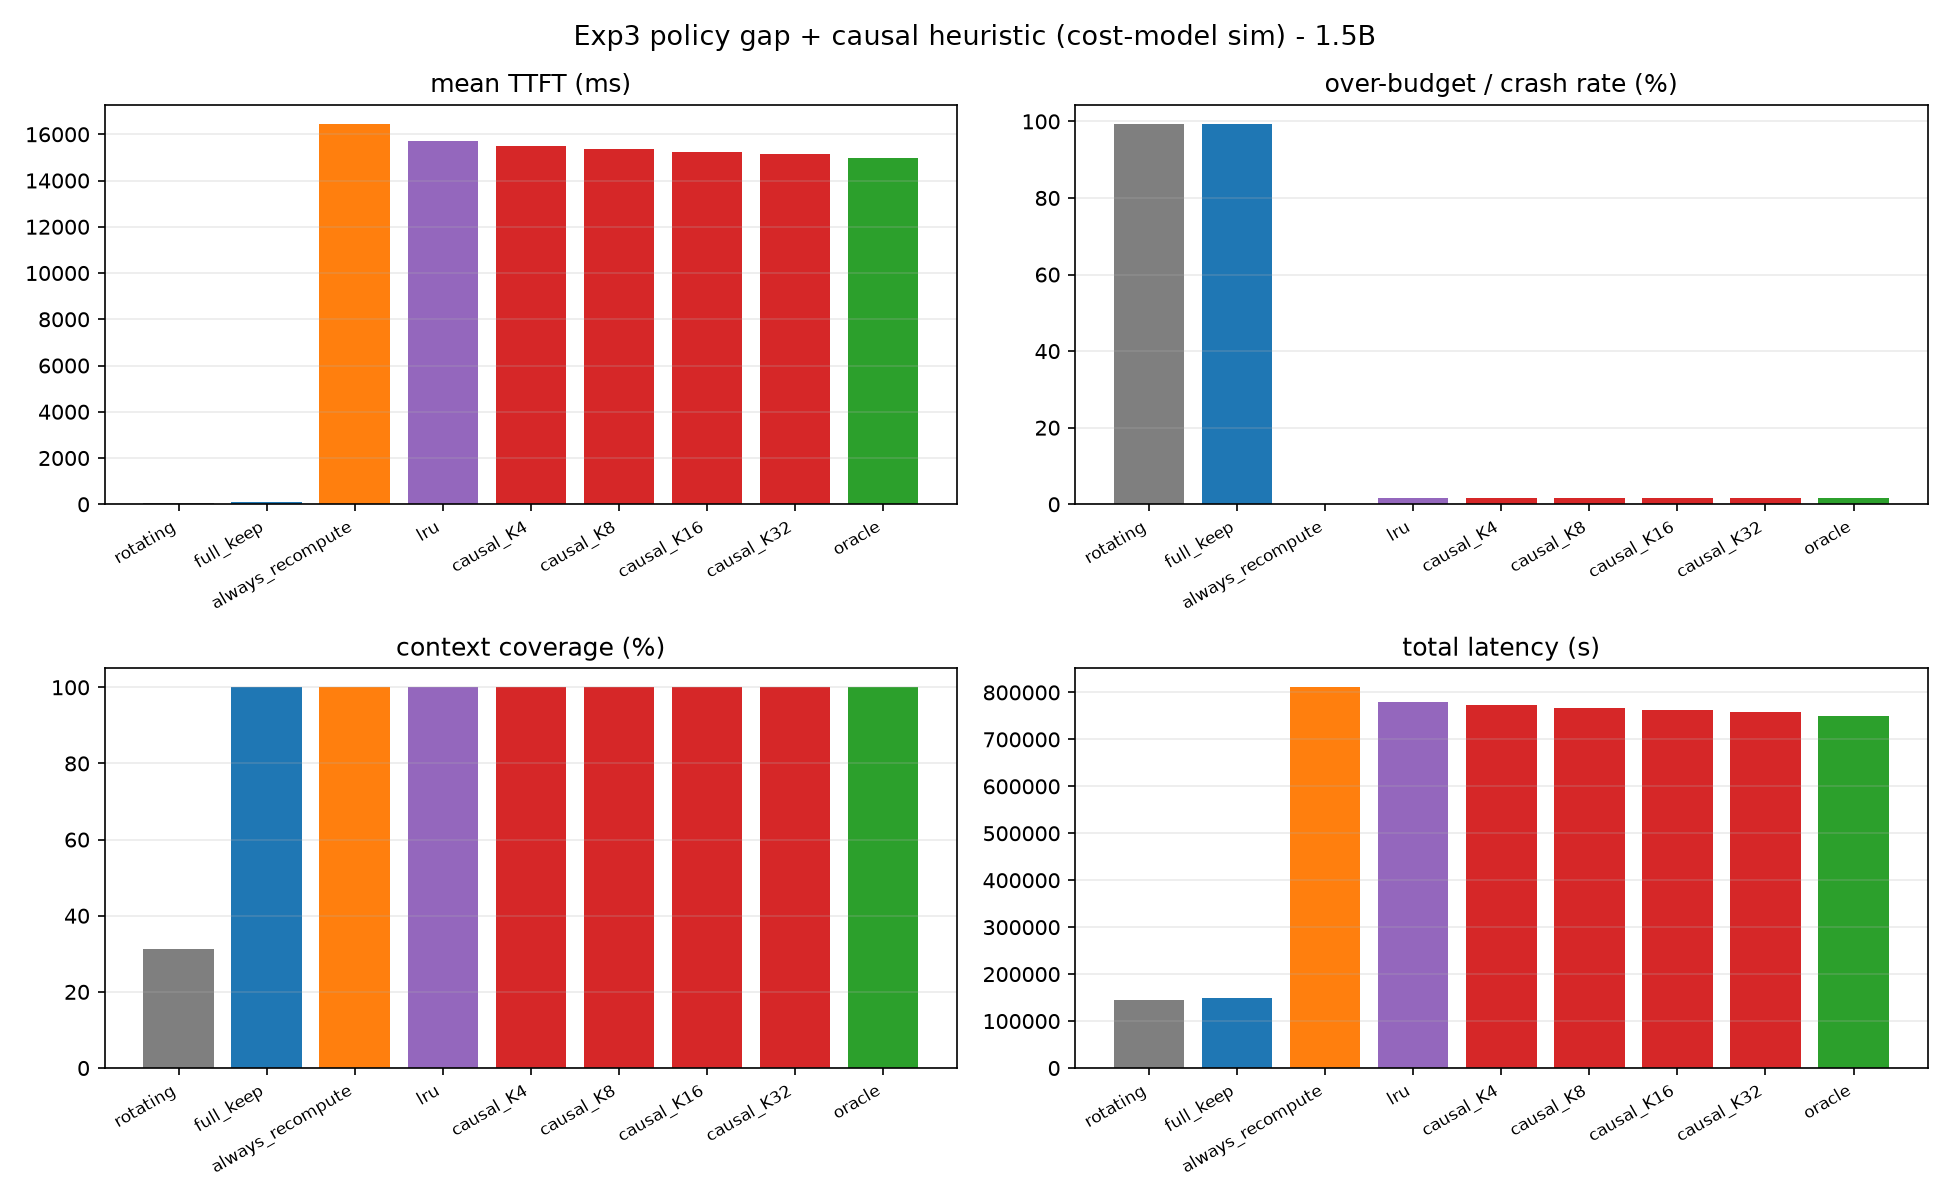
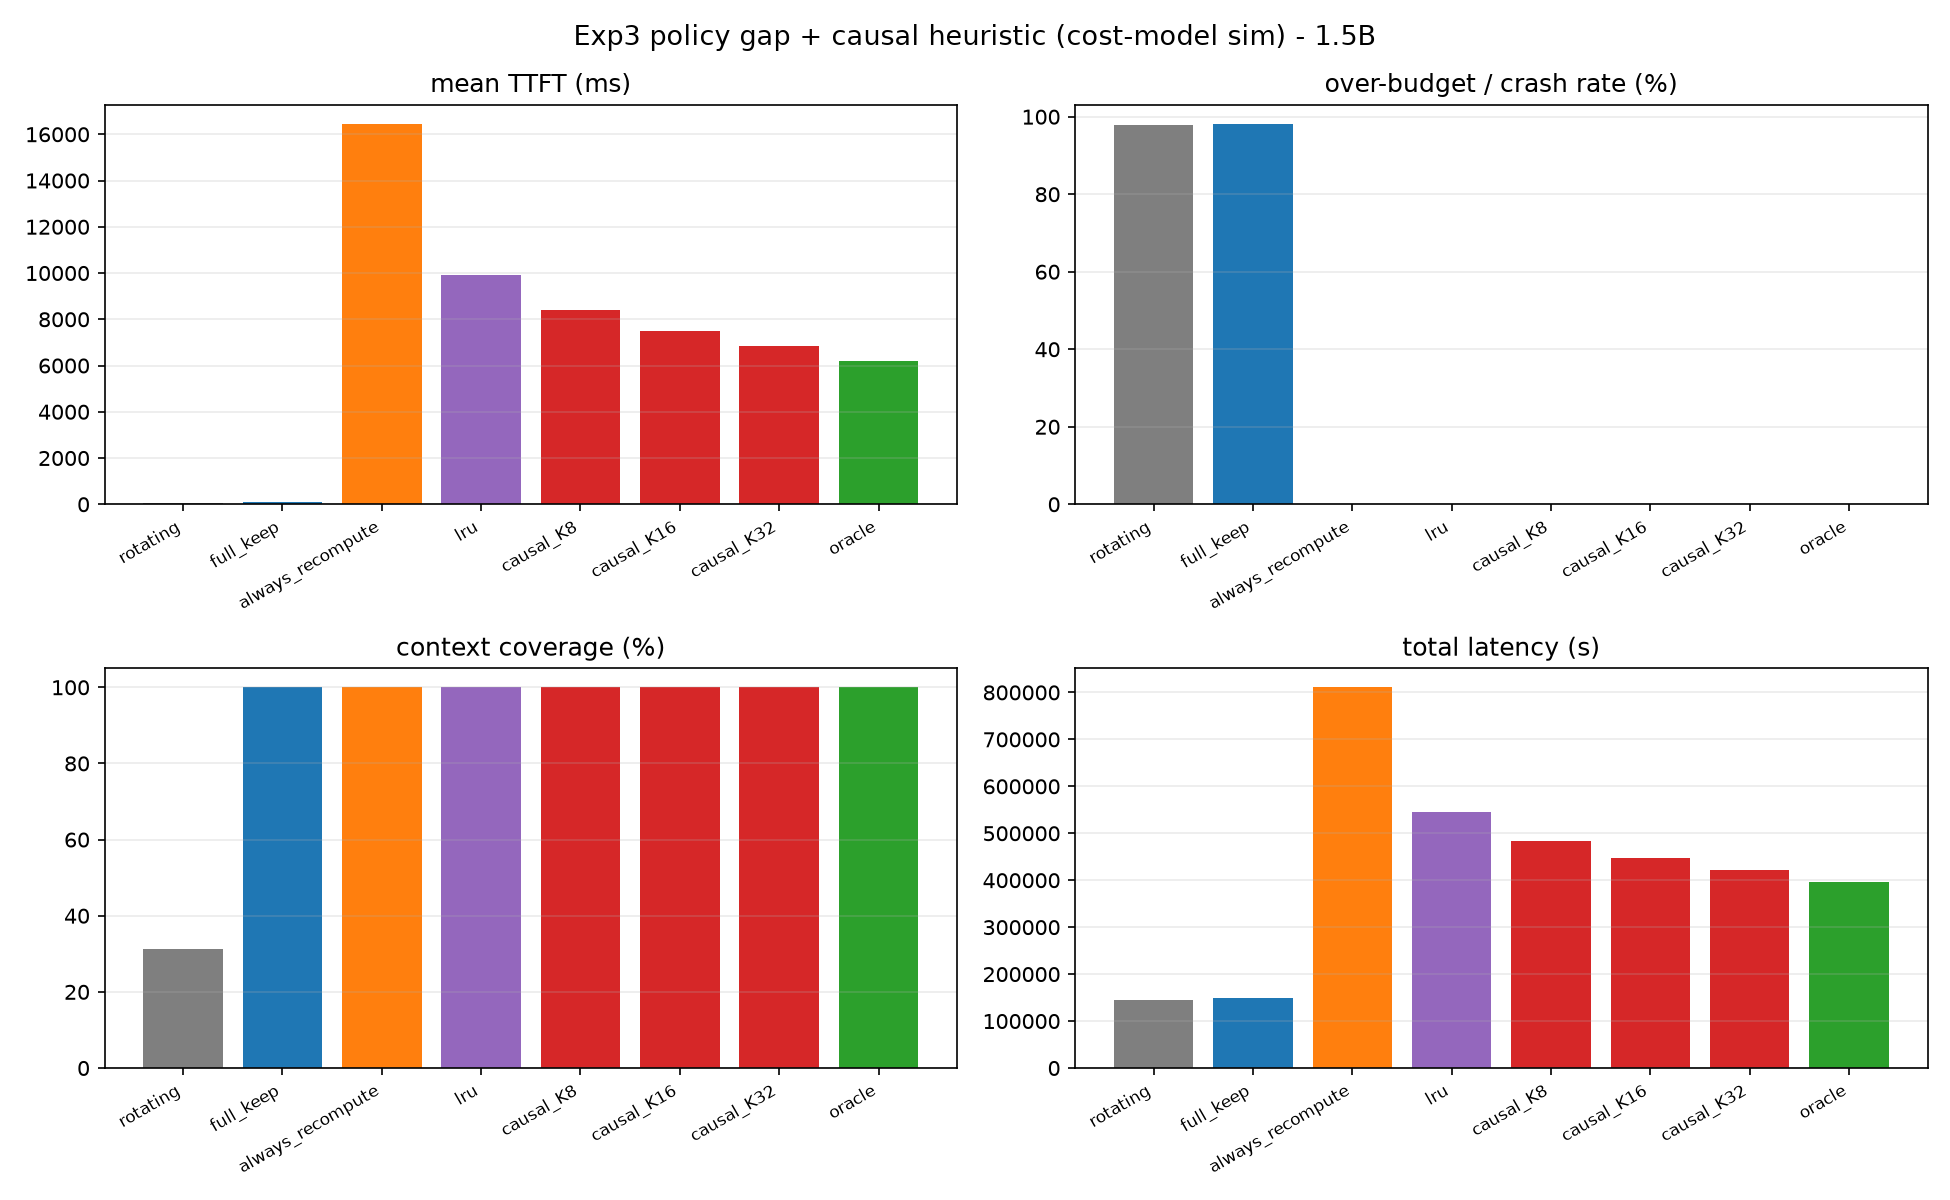
Docs: vLLM-on-Mac baseline + Phase 2 strategy; Exp3 recovery robustness
- DECISIONS/RELATED_WORK/EXPERIMENTS: vllm-metal & vllm-mlx (PagedAttention mechanism
  ported from datacenter, NOT cost-remodeled) added as Tier-2 competitors, Exp3 control group,
  and Phase-2b implementation target. Phase 2 = staged 2a (mlx-lm, validate) / 2b (vllm-metal).
- vllm-metal real-engine run DEFERRED: no Docker, and Docker-on-Mac has no Metal GPU
  passthrough; the simulation's lru policy proxies vLLM's eviction in the control group.
- Exp3 recovery robust across budgets: causal recovers 41-83% of the LRU->oracle TTFT gap
  (2GB & 6GB shared budget, K=8-32) with no foresight.

diff --git a/DECISIONS.md b/DECISIONS.md
@@ -28,3 +28,11 @@
 2026-06-22: Exp3 causal 구현·실측(실 ShareGPT 5k convs, data/raw/old/sg_52k.json 1GB·gitignored). 다중 시퀀스 eviction 모델(가변 think-time 스케줄)로 재구성. 결과: oracle 14.96 < causal 15.14–15.51 < lru 15.71 < always_recompute 16.46 s TTFT. **causal(예지 없음)이 LRU→oracle 격차의 44–75%(K=8–32), always_recompute→oracle의 72–88% 회수 → 달성 가능성 입증(강).**
 2026-06-22: ★ spec 2곳 수정(챗 OK 필요) — 계단함수가 causal<LRU(음수 recovery) 만들어 정합성 수정. ① oracle P_reuse="ever-reused"(이진), "K턴 내" 아님 — Exp1상 keep<recompute 항상이라 재사용될 건 전부 유지·끝난 것만 evict가 진짜 상한(이전 oracle<LRU 버그 해소). ② causal P_reuse=exp(−idle/K) smooth(계단 0.1 floor가 오래된 큰 conv evict 막아 작은 것만 evict→causal<LRU). 둘 다 동일 drop_gain=keep_ms−P_reuse×prefill(N)(keep_ms=KV/92GB·s), P_reuse 입력만 다름 — 검증점 충족. causal은 여전히 1-param·recency-only·예지 없음.
 2026-06-22: 주의 — budget 2GB/동시성16은 실 long-tail conv(최대 149k tok=4.3GB)엔 빡빡 → 절대 TTFT(~15s)는 고압박 regime. recovery%가 robust headline; budget/동시성 sweep으로 강건성 확인 필요(다음). rotating(mlx-lm 기본)은 실 multiturn서 ctx 31%(69% 손실)·full_keep peak 359GB로 둘 다 비현실적.
[phone redacted]: vLLM-on-Mac 등장 확인 — (a) vllm-metal: Docker×vLLM 공식 플러그인, MLX 백엔드, 단일 풀 제로카피 + paged attention, v0.2.0(2026/04)에서 unified paged varlen Metal 커널 기본(TTFT 83×, throughput 3.6× vs v0.1.0). (b) vllm-mlx: 별개 커뮤니티 프로젝트, continuous batching + paged KV + prefix cache + SSD 티어링(EuroMLSys'26 계열).
[phone redacted]: 노벨티 영향 판정 — 이들은 PagedAttention *메커니즘*을 데이터센터에서 *이식*했을 뿐, (i) 단일 풀 비용 구조 *재유도*(offload 퇴화 → keep-vs-recompute), (ii) CPU/GPU 버스 경합 비대칭은 미탐. KV 정책은 vLLM 그대로(LRU/prefix/recompute-default). SSD 티어링은 디스크 축이지 통합 메모리 내부 recompute-vs-read 축 아님. → 우리 지적 델타(비용 재유도 + 경합 비대칭 + 정책 반영) 유지·강화. "메커니즘 빈틈"은 닫혔고 "정책/비용모델 빈틈"은 열려 있음.
[phone redacted]: 프레이밍 강화 — "vLLM조차 Mac에 왔다 = 통합 메모리가 진지한 플랫폼"(동기 강화) + "그 vLLM조차 PCIe 가정 정책을 이식만 함"(델타 날카로워짐). ②(경합 비대칭) 전면 프레이밍 유지.
[phone redacted]: 우리가 만드는 것 정의 — vllm-metal보다 빠른 커널/배칭/인프라가 아님(그들이 잘함). *그들이 무시하는 비용 축*에서 이기는 KV 관리 *결정 정책*. 주장 = "vllm-metal의 이식된 정책은 단일 풀에서 차선, 우리 UMA-native 정책이 같은 엔진 안에서 이를 이긴다"(OOM/크래시↓ + 컨텍스트 보존 + 불필요 recompute↓, oracle 상한 근접).
[phone redacted]: Phase 2 구현 전략 = 단계적 이중 트랙. Phase 2a(먼저, mlx-lm): 정책 구현·아이디어 검증(단일 사용자·멀티턴), 빠름·통제, 워크샵용 충분. Phase 2b(조건부, vllm-metal): 2a 강결과 + 랩 합류 시, vllm-metal KV 경로에 이식해 "실 서빙 엔진서 배칭 하에 그들의 LRU를 이긴다" 입증(메인 트랙 결정타). 위험 격리: vllm-metal 인프라에 먼저 빠지지 말 것 — mlx-lm로 "되는지" 먼저 싸게 확인.
[phone redacted]: watch list 추가 — vllm-metal/vllm-mlx repo 릴리스 노트(빠르게 변함·경쟁: 다음 버전서 UMA-aware eviction 넣으면 ②까지 닿을 수 있음). arXiv 알림과 함께 제출 직전 재검증.
[phone redacted]: vllm-metal 실 엔진 측정 보류 — docker 미설치 + Docker-on-Mac은 Metal GPU 패스스루 불가(Linux VM) + 네이티브 설치는 별프로젝트(챗 토끼굴 경고 준수). 시뮬레이션상 lru baseline이 vLLM eviction(LRU/recompute-default)의 proxy로 대조군 커버; 실 엔진 측정은 Phase 2b 인접으로 큐잉.
[phone redacted]: Exp3 recovery budget robustness 확인 — 2GB(44–75%)·6GB(41–83%) 모두 causal이 LRU→oracle 격차의 ~40–83%(K=8–32) 회수. always_recompute→oracle은 79–94%. 헤드룸·달성가능성 강건(고압박일수록 절대 TTFT↑이나 recovery% 일관).

diff --git a/EXPERIMENTS.md b/EXPERIMENTS.md
@@ -47,6 +47,11 @@ drop_gain 큰 순서로 drop, 예산 충족까지.
 주의: 첫 버전 정교화 금지. recency는 계단함수로 충분. 학습/예측 기반 확장은 Phase2.
 검증: oracle과 causal이 *정확히 같은 비용 함수* 사용(차이는 P_reuse 입력뿐); recompute_cost가 Exp1 prefill(N) 곡선을 룩업.
 
+### vllm-metal 비교군 추가 [2026-06-22]
+최종 대조군에 vllm-metal(또는 vllm-mlx) paged-KV + 기본 eviction(LRU/recompute-default)을 같은 멀티턴 트레이스에서 *실측*(실 엔진 행동 관찰)해 추가 — "SOTA 서빙 엔진조차 단일 풀 비용 구조를 무시해 흘린다"(mlx-lm rotating보다 강한 baseline).
+최종 대조군: rotating(mlx-lm) / full_keep / always_recompute / **vllm-metal paged+LRU** / oracle(상한) / causal(우리). [+lru = 시뮬레이션상 vLLM eviction의 proxy, 이미 포함]
+주의: 실 엔진 측정만(Phase 2b 구현과 별개). 설치·실행이 무거우면 우선순위 낮춰 실 트레이스 Exp3(mlx 정책+oracle+causal) 먼저 완성하고 vllm-metal 비교군은 그다음.
+
 ## Exp 4 — 크로스아키 대조점  [RQ4]  (선택, Phase 2 즈음)
 목표: crossover가 통합 메모리 스펙트럼을 따라 *이동*함을 보임(풀 시스템 이식 X, 곡선만).
 방법: Exp1 비용 곡선을 클라우드 분리형 GPU 한 대(PCIe; A10/4090)에서 재현 → N*_PCIe.

diff --git a/RELATED_WORK.md b/RELATED_WORK.md
@@ -5,8 +5,10 @@
 - DBMS-Inspired Preemption (2411.07447): PCIe recompute>swap crossover + "end-device선 swap 유리" Remark(우리 punt).
 ## Tier 2 경쟁·인접 (주시)
 - Learning to Evict from KV Cache (2602.10238, Apple): RL eviction, 하드웨어-무관. 하드웨어-인지 피벗 시 최대 위협.
-- vllm-mlx (2601.19139, EuroMLSys'26): UMA continuous batching, eviction은 generic LRU.
+- vllm-metal (Docker×vLLM 공식 플러그인, MLX 백엔드): 단일 풀 제로카피 + paged attention(experimental), v0.2.0 unified paged varlen Metal 커널(TTFT 83×↑). → PagedAttention 메커니즘 이식이지 비용 재유도 아님; KV 정책 vLLM 그대로(LRU/recompute). **Phase 2b 구현 타겟 후보 + Exp3 비교군.**
+- vllm-mlx (2601.19139, EuroMLSys'26): UMA continuous batching + paged KV + prefix + SSD 티어링; eviction은 generic LRU.
 - KVSwap (2511.11907): on-device disk-aware offload(디스크 I/O 바운드, in-memory 결정 아님).
+메모: vllm-metal/vllm-mlx 둘 다 paged KV·단일 풀 인지는 했으나 비용 모델 재유도·CPU/GPU 버스 경합·UMA-native eviction 정책은 미탐 = 우리 델타. 릴리스 빠름 → watch list, 제출 직전 재검증.
 ## Tier 3 토대 계보 (읽음): FlexGen 2303.06865 / vLLM 2309.06180 / Orca(OSDI'22) / InfiniGen(OSDI'24)
 ## Tier 4 UMA 특성화: Profiling LLM on Apple Silicon [phone redacted] / Framework 비교 [phone redacted] / Mobile SoC 경합 [phone redacted]
 ## Tier 5 데이터센터 UM(대조용): SuperInfer 2601.20309 / Oneiros 2507.11507 / Dyn KV Placement 2508.13231

diff --git a/RESEARCH.md b/RESEARCH.md
@@ -72,7 +72,7 @@ folklore 위험 방어: 블로그/업계 논의 명시 인용 + "첫 체계적·
 - 현재 열린 질문: (1) **N* 이동 [답함]** — prefill 경합 거의 무반응(−0.5~+7.5%, compute-bound) vs decode ~38%(bandwidth-bound) → 경합 시 N*가 recompute 쪽 이동(~1.3–1.4×). Exp1 ~600×엔 못 미쳐 refine. 정책 레버=버스 경합 시 recompute 선호(PCIe엔 없음). (2) KV 읽기 실효 대역폭이 큰 모델서 더 낮은 이유. (3) 7B@8192 클린 단일 점. (4) PCIe swap=모델값 — Exp4 실측 대조.
 - [x] **Phase 1 측정 GO** + 프레이밍 확정(2026-06-21): ②경합 비대칭을 전면 empirical로, ①eviction은 folklore의 첫 통제 정량화로 포지셔닝.
 - [ ] 마무리 측정: 7B@8192 클린 1점, 경합 곡선 크기 sweep(+큰모델 KV대역폭 비효율 미니조사).
-- [~] Exp 3 (정책 격차) — 다중 시퀀스 eviction 모델(가변 think-time) + online causal 휴리스틱, **실 ShareGPT(5k convs) 측정**. oracle 14.96<causal<lru 15.71<always_recompute 16.46s TTFT. **causal(예지 없음)이 LRU→oracle 격차의 44–75%(K=8–32) 회수 → 달성 가능성 입증(강).** rotating(기본)은 실 multiturn서 ctx 31%만 유지. spec 2곳 정합성 수정(oracle=ever-reused 이진, causal=exp(−idle/K) smooth) **챗 OK 필요**. budget/동시성 robustness sweep 남음.
+- [~] Exp 3 (정책 격차) — 다중 시퀀스 eviction 모델(가변 think-time) + online causal 휴리스틱, **실 ShareGPT(5k convs) 측정**. oracle 14.96<causal<lru 15.71<always_recompute 16.46s TTFT. **causal(예지 없음)이 LRU→oracle 격차의 44–75%(K=8–32) 회수 → 달성 가능성 입증(강).** rotating(기본)은 실 multiturn서 ctx 31%만 유지. spec 2곳 정합성 수정(oracle=ever-reused 이진, causal=exp(−idle/K) smooth) **챗 OK 필요**. budget robustness 확인됨(2/6GB 모두 LRU→oracle 41–83% 회수). vllm-metal 비교군=실엔진 보류(Docker-Mac Metal 패스스루 불가; 시뮬 lru가 proxy).
 - [ ] arXiv/Semantic Scholar 알림 설정. 제출 직전 노벨티 재검증.
 - [ ] 랩 컨택(한동수/박경수) — GO+측정 들고.
 